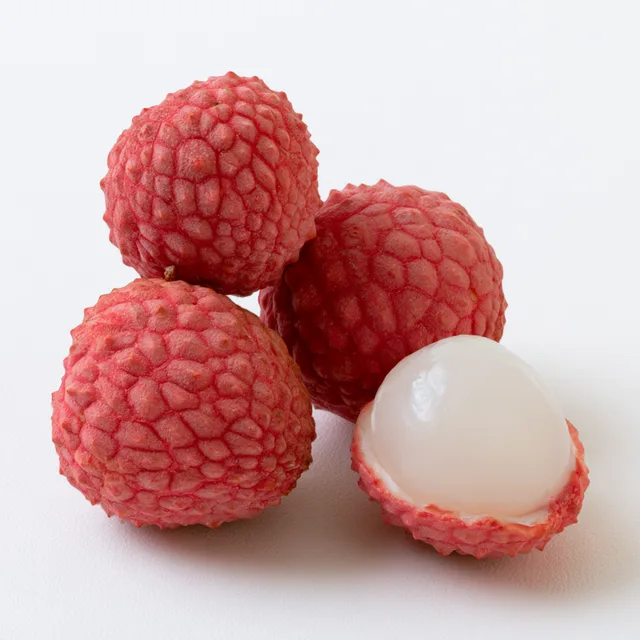
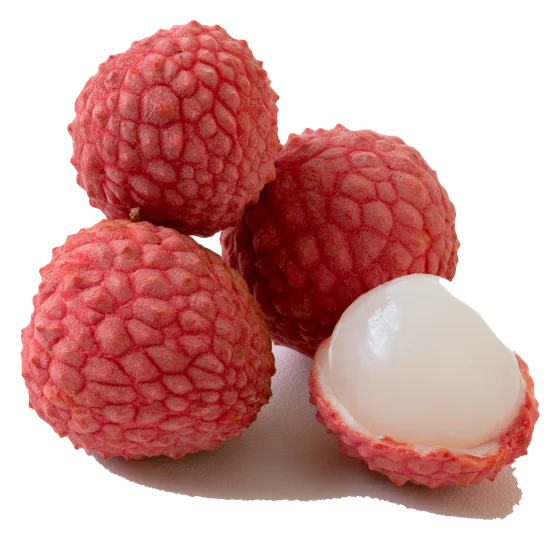
Note images: 187 transparent cutouts, wired to note names; share card uses cutouts, Blush replaced by Mist
Claude-Session: https://claude.ai/code/session_01PDRuPzh4AYC9VFbGx1ygXA

diff --git a/src/App.jsx b/src/App.jsx
@@ -538,7 +538,7 @@ function noteFallback(name) {
   let h = 0; for (const ch of String(name).toLowerCase()) h = (h * 31 + ch.charCodeAt(0)) >>> 0;
   return NOTE_FALLBACK_PAL[h % NOTE_FALLBACK_PAL.length];
 }
-// Note photos (Midjourney, uncut). PREVIEW ONLY: switched on by opening the site with ?noteimages=1 (remembered on this device); off for everyone else.
+// Note photos (Midjourney, cut out on transparent). PREVIEW ONLY: switched on by opening the site with ?noteimages=1 (remembered on this device); off for everyone else.
 const NOTE_PHOTO_PREVIEW = (() => {
   try {
     const q = new URLSearchParams(window.location.search).get("noteimages");
@@ -547,21 +547,8 @@ const NOTE_PHOTO_PREVIEW = (() => {
     return localStorage.getItem("noteimages") === "1";
   } catch { return false; }
 })();
-const NOTE_PHOTO_ALIASES = {
-  "lemongrass":"lemongrass", "litchi":"lychee", "lychee":"lychee", "maple":"maple", "olive tree":"olive-tree", "oregano":"oregano", "marjoram":"oregano",
-  "papaya":"papaya", "paprika":"paprika", "passion flower":"passion-flower", "peach blossom":"peach-blossom", "peony":"pink-peony", "pink peony":"pink-peony",
-  "truffle":"truffle", "black truffle":"truffle", "sesame":"sesame", "shiso":"shiso", "turmeric":"turmeric", "wisteria":"wisteria",
-  "solar notes":"family-solar", "solar":"family-solar",
-  "animalic notes":"family-animalic", "animalic":"family-animalic",
-  "floral notes":"family-floral", "flowers":"family-floral",
-  "fruity notes":"family-fruit", "fruits":"family-fruit",
-  "gourmand notes":"family-gourmand", "gourmand":"family-gourmand",
-  "herbal notes":"family-herb", "herbs":"family-herb",
-  "marine notes":"family-marine", "marine":"family-marine",
-  "mineral notes":"family-mineral", "mineral":"family-mineral",
-  "woody notes":"family-wood", "woods":"family-wood", "wood":"family-wood",
-};
-const NOTE_PHOTO_GALLERY = ["lemongrass","lychee","maple","olive tree","oregano","papaya","paprika","passion flower","peach blossom","pink peony","truffle","sesame","shiso","turmeric","wisteria","floral notes","fruity notes","woody notes","herbal notes","gourmand notes","animalic notes","marine notes","mineral notes","solar notes"];
+const NOTE_PHOTO_ALIASES = {"absinthe":"absinthe", "allspice":"allspice", "almond blossom":"almond-blossom", "almond":"almond", "amber":"amber", "ambergris":"ambergris", "animalic notes":"family-animalic", "animalic":"family-animalic", "apple blossom":"apple-blossom", "apple":"apple", "apricot":"apricot", "bamboo":"bamboo", "banana":"banana", "basil":"basil", "benzoin":"benzoin", "bergamot":"bergamot", "bitter orange blossom":"bitter-orange-blossom", "bitter orange leaf":"bitter-orange-leaf", "black pepper":"black-pepper", "pepper":"black-pepper", "black tea":"black-tea", "tea":"black-tea", "blackcurrant":"blackcurrant", "black currant":"blackcurrant", "cassis":"blackcurrant", "blood orange":"blood-orange", "blueberry":"blueberry", "broom":"broom", "butter":"butter", "cacao pod":"cacao-pod", "cacao":"cacao-pod", "cocoa":"cacao-pod", "cannabis":"cannabis", "cantaloupe":"cantaloupe", "caramel":"caramel", "cardamom":"cardamom", "cardamon":"cardamom", "carnation":"carnation", "carrot seeds":"carrot-seeds", "carrot":"carrot", "cashmere":"cashmere", "cedarwood":"cedarwood", "cedar":"cedarwood", "cedar wood":"cedarwood", "atlas cedar":"cedarwood", "virginia cedar":"cedarwood", "champaca":"champaca", "champagne":"champagne", "cherry blossom":"cherry-blossom", "sakura":"cherry-blossom", "cherry":"cherry", "black cherry":"cherry", "chestnut":"chestnut", "chili":"chili", "cinnamon":"cinnamon", "cistus":"cistus", "citrus":"citrus", "clary sage":"clary-sage", "clove":"clove", "clover":"clover", "coconut":"coconut", "coffee":"coffee", "coffee beans":"coffee", "coriander":"coriander", "cotton candy":"cotton-candy", "cotton flower":"cotton-flower", "cotton":"cotton-flower", "cranberry":"cranberry", "cream glass":"cream-glass", "cream":"cream-glass", "cucumber":"cucumber", "cypress":"cypress", "dark chocolate":"dark-chocolate", "chocolate":"dark-chocolate", "dates":"dates", "dried fruits":"dried-fruits", "ebony":"ebony", "fennel":"fennel", "fenugreek":"fenugreek", "fern":"fern", "fig":"fig", "floral notes":"family-floral", "flowers":"family-floral", "frankincense":"frankincense", "olibanum":"frankincense", "incense":"frankincense", "freesia":"freesia", "fruity notes":"family-fruit", "fruits":"family-fruit", "galbanum":"galbanum", "gardenia":"gardenia", "gin glass":"gin-glass", "gin":"gin-glass", "ginger":"ginger", "golden glass":"golden-glass", "whisky":"golden-glass", "whiskey":"golden-glass", "cognac":"golden-glass", "gourmand notes":"family-gourmand", "gourmand":"family-gourmand", "grapefruit":"grapefruit", "grapes":"grapes", "guaiac":"guaiac", "guava":"guava", "gurjan balsam":"gurjan-balsam", "hawthorn":"hawthorn", "hawthorn blossom":"hawthorn", "hazelnut":"hazelnut", "heliotrope":"heliotrope", "herbal notes":"family-herb", "herbs":"family-herb", "hibiscus":"hibiscus", "honeycomb":"honeycomb", "honey":"honeycomb", "beeswax":"honeycomb", "iris":"iris", "jasmine sambac":"jasmine-sambac", "jasmine":"jasmine", "jasmine sambac absolute":"jasmine", "jasmine grandiflorum":"jasmine", "juniper":"juniper", "kiwi":"kiwi", "kumquat":"kumquat", "labdanum":"labdanum", "lavender":"lavender", "leather":"leather", "leather accord":"leather", "lemon":"lemon", "lemongrass":"lemongrass", "licorice":"licorice", "lily of the valley":"lily-of-the-valley", "muguet":"lily-of-the-valley", "lily":"lily", "lime":"lime", "linden blossom":"linden-blossom", "lychee":"lychee", "litchi":"lychee", "mace":"mace", "magnolia":"magnolia", "mahogany":"mahogany", "mandarin":"mandarin", "mandarin orange":"mandarin", "tangerine":"mandarin", "mango":"mango", "maple":"maple", "marigold":"marigold", "marine notes":"family-marine", "marine":"family-marine", "marshmallow":"marshmallow", "mastic":"mastic", "milk splash":"milk-splash", "milk":"milk-splash", "mimosa":"mimosa", "mineral notes":"family-mineral", "mineral":"family-mineral", "myrrh":"myrrh", "myrtle":"myrtle", "nectarine":"nectarine", "nutmeg":"nutmeg", "oakmoss":"oakmoss", "olive tree":"olive-tree", "orange blossom":"orange-blossom", "neroli":"orange-blossom", "orange flower":"orange-blossom", "orchid":"orchid", "oregano":"oregano", "marjoram":"oregano", "osmanthus":"osmanthus", "oud":"oud", "agarwood":"oud", "oud wood":"oud", "palo santo":"palo-santo", "papaya":"papaya", "paprika":"paprika", "passion flower":"passion-flower", "passionfruit":"passionfruit", "patchouli":"patchouli", "peach blossom":"peach-blossom", "peach":"peach", "pear":"pear", "pineapple":"pineapple", "pink peony":"pink-peony", "peony":"pink-peony", "peonies":"pink-peony", "pink peppercorn":"pink-peppercorn", "pink pepper":"pink-peppercorn", "pink peppercorns":"pink-peppercorn", "pistachio":"pistachio", "pitahaya":"pitahaya", "plum":"plum", "pomelo":"pomelo", "popcorn":"popcorn", "praline":"praline", "quince":"quince", "raspberry":"raspberry", "red currant":"red-currant", "rhubarb":"rhubarb", "rice":"rice", "rice notes":"rice", "rose geranium":"rose-geranium", "rose hip":"rose-hip", "rose":"rose", "rose petals":"rose", "rosemary":"rosemary", "rum tumbler":"rum-tumbler", "rum":"rum-tumbler", "saffron":"saffron", "sage":"sage", "salt":"salt", "sea salt":"salt", "sand":"sand", "sandalwood":"sandalwood", "sandal":"sandalwood", "seaweed":"seaweed", "sesame":"sesame", "shiso":"shiso", "spearmint":"spearmint", "strawberry":"strawberry", "suede":"suede", "sugar":"sugar", "white sugar":"sugar", "sugarcane":"sugarcane", "solar notes":"family-solar", "solar":"family-solar", "sweet orange":"sweet-orange", "orange":"sweet-orange", "sweet pea":"sweet-pea", "teak":"teak", "tobacco":"tobacco", "toffee":"toffee", "tomato leaf":"tomato-leaf", "tomato leaves":"tomato-leaf", "tonka":"tonka", "tonka bean":"tonka", "tonka beans":"tonka", "truffle":"truffle", "black truffle":"truffle", "tuberose":"tuberose", "turmeric":"turmeric", "vanilla":"vanilla", "vetiver":"vetiver", "violet flower":"violet-flower", "violet":"violet-flower", "violet leaf":"violet-leaf", "watermelon":"watermelon", "wheat":"wheat", "grain":"wheat", "wisteria":"wisteria", "glycine":"wisteria", "woody notes":"family-wood", "woods":"family-wood", "wood":"family-wood", "ylang ylang":"ylang-ylang", "yuzu":"yuzu"};
+const NOTE_PHOTO_GALLERY = ["absinthe", "allspice", "almond blossom", "almond", "amber", "ambergris", "animalic notes", "apple blossom", "apple", "apricot", "bamboo", "banana", "basil", "benzoin", "bergamot", "bitter orange blossom", "bitter orange leaf", "black pepper", "black tea", "blackcurrant", "blood orange", "blueberry", "broom", "butter", "cacao pod", "cannabis", "cantaloupe", "caramel", "cardamom", "carnation", "carrot seeds", "carrot", "cashmere", "cedarwood", "champaca", "champagne", "cherry blossom", "cherry", "chestnut", "chili", "cinnamon", "cistus", "citrus", "clary sage", "clove", "clover", "coconut", "coffee", "coriander", "cotton candy", "cotton flower", "cranberry", "cream glass", "cucumber", "cypress", "dark chocolate", "dates", "dried fruits", "ebony", "fennel", "fenugreek", "fern", "fig", "floral notes", "frankincense", "freesia", "fruity notes", "galbanum", "gardenia", "gin glass", "ginger", "golden glass", "gourmand notes", "grapefruit", "grapes", "guaiac", "guava", "gurjan balsam", "hawthorn", "hazelnut", "heliotrope", "herbal notes", "hibiscus", "honeycomb", "iris", "jasmine sambac", "jasmine", "juniper", "kiwi", "kumquat", "labdanum", "lavender", "leather", "lemon", "lemongrass", "licorice", "lily of the valley", "lily", "lime", "linden blossom", "lychee", "mace", "magnolia", "mahogany", "mandarin", "mango", "maple", "marigold", "marine notes", "marshmallow", "mastic", "milk splash", "mimosa", "mineral notes", "myrrh", "myrtle", "nectarine", "nutmeg", "oakmoss", "olive tree", "orange blossom", "orchid", "oregano", "osmanthus", "oud", "palo santo", "papaya", "paprika", "passion flower", "passionfruit", "patchouli", "peach blossom", "peach", "pear", "pineapple", "pink peony", "pink peppercorn", "pistachio", "pitahaya", "plum", "pomelo", "popcorn", "praline", "quince", "raspberry", "red currant", "rhubarb", "rice", "rose geranium", "rose hip", "rose", "rosemary", "rum tumbler", "saffron", "sage", "salt", "sand", "sandalwood", "seaweed", "sesame", "shiso", "spearmint", "strawberry", "suede", "sugar", "sugarcane", "solar notes", "sweet orange", "sweet pea", "teak", "tobacco", "toffee", "tomato leaf", "tonka", "truffle", "tuberose", "turmeric", "vanilla", "vetiver", "violet flower", "violet leaf", "watermelon", "wheat", "wisteria", "woody notes", "ylang ylang", "yuzu"];
 function notePhotoFor(rawName) {
   if (!NOTE_PHOTO_PREVIEW) return null;
   const key = NOTE_PHOTO_ALIASES[String(rawName || "").trim().toLowerCase()];
@@ -2413,8 +2400,8 @@ const SHARE_FORMATS = [
   { id:"portrait", label:"Portrait", sub:"1080 × 1350 · feed", w:1080, h:1350 },
   { id:"story", label:"Story", sub:"1080 × 1920 · stories", w:1080, h:1920 },
 ];
-const SHARE_BG = [ ["cream","Cream","#FAF7F5","#1A1420"], ["white","White","#FFFFFF","#1A1420"], ["blush","Blush","#F6E6EA","#1A1420"], ["sage","Sage","#E6ECE3","#1A1420"], ["lavender","Lavender","#ECE8F3","#1A1420"], ["butter","Butter","#F7F0DC","#1A1420"], ["auto","Auto","",""] ];
-const AUTO_TINTS = { pink:"blush", peony:"blush", peach:"blush", blossom:"blush", rose:"blush", lychee:"blush", litchi:"blush", papaya:"butter", turmeric:"butter", sesame:"butter", maple:"butter", lemongrass:"sage", oregano:"sage", shiso:"sage", olive:"sage", fern:"sage", wisteria:"lavender", passion:"lavender", lavender:"lavender", iris:"lavender", violet:"lavender" };
+const SHARE_BG = [ ["cream","Cream","#FAF7F5","#1A1420"], ["white","White","#FFFFFF","#1A1420"], ["mist","Mist","#E8EDF1","#1A1420"], ["sage","Sage","#E6ECE3","#1A1420"], ["lavender","Lavender","#ECE8F3","#1A1420"], ["butter","Butter","#F7F0DC","#1A1420"], ["auto","Auto","",""] ];
+const AUTO_TINTS = { pink:"mist", peony:"mist", peach:"mist", blossom:"mist", rose:"mist", lychee:"mist", litchi:"mist", papaya:"butter", turmeric:"butter", sesame:"butter", maple:"butter", lemongrass:"sage", oregano:"sage", shiso:"sage", olive:"sage", fern:"sage", wisteria:"lavender", passion:"lavender", lavender:"lavender", iris:"lavender", violet:"lavender" };
 function loadShareImg(src) { return new Promise((res, rej) => { const i = new Image(); i.onload = () => res(i); i.onerror = rej; i.src = src; }); }
 async function renderNotesCard(frag, fmt, bg) {
   const names = [];
@@ -2446,12 +2433,8 @@ async function renderNotesCard(frag, fmt, bg) {
     const inRow = r === rows-1 ? n - r*cols : cols;
     const rowW = inRow*cell + gap*(inRow-1);
     const x = (fmt.w - rowW)/2 + k*(cell+gap), y = y0 + r*(cell+labelH+gap);
-    const oc = document.createElement("canvas"); oc.width = oc.height = Math.round(cell);
-    const o = oc.getContext("2d");
-    o.filter = "brightness(1.05)"; o.drawImage(im, 0, 0, oc.width, oc.height); o.filter = "none";
-    o.globalCompositeOperation = "destination-in"; o.filter = "blur(" + Math.round(cell*0.035) + "px)";
-    const ins = cell*0.035; o.fillStyle = "#000"; o.beginPath(); o.roundRect(ins, ins, cell-ins*2, cell-ins*2, cell*0.2); o.fill();
-    g.save(); g.globalCompositeOperation = dark ? "source-over" : "multiply"; g.drawImage(oc, x, y); g.restore();
+    const sc = Math.min(cell / im.width, cell / im.height), dw = im.width * sc, dh = im.height * sc;
+    g.drawImage(im, x + (cell - dw)/2, y + (cell - dh)/2, dw, dh);
     g.fillStyle = ink; g.font = "500 30px 'Fraunces Variable', Georgia, serif"; g.textAlign = "center";
     g.fillText(list[i].n, x + cell/2, y + cell + 40);
   });
